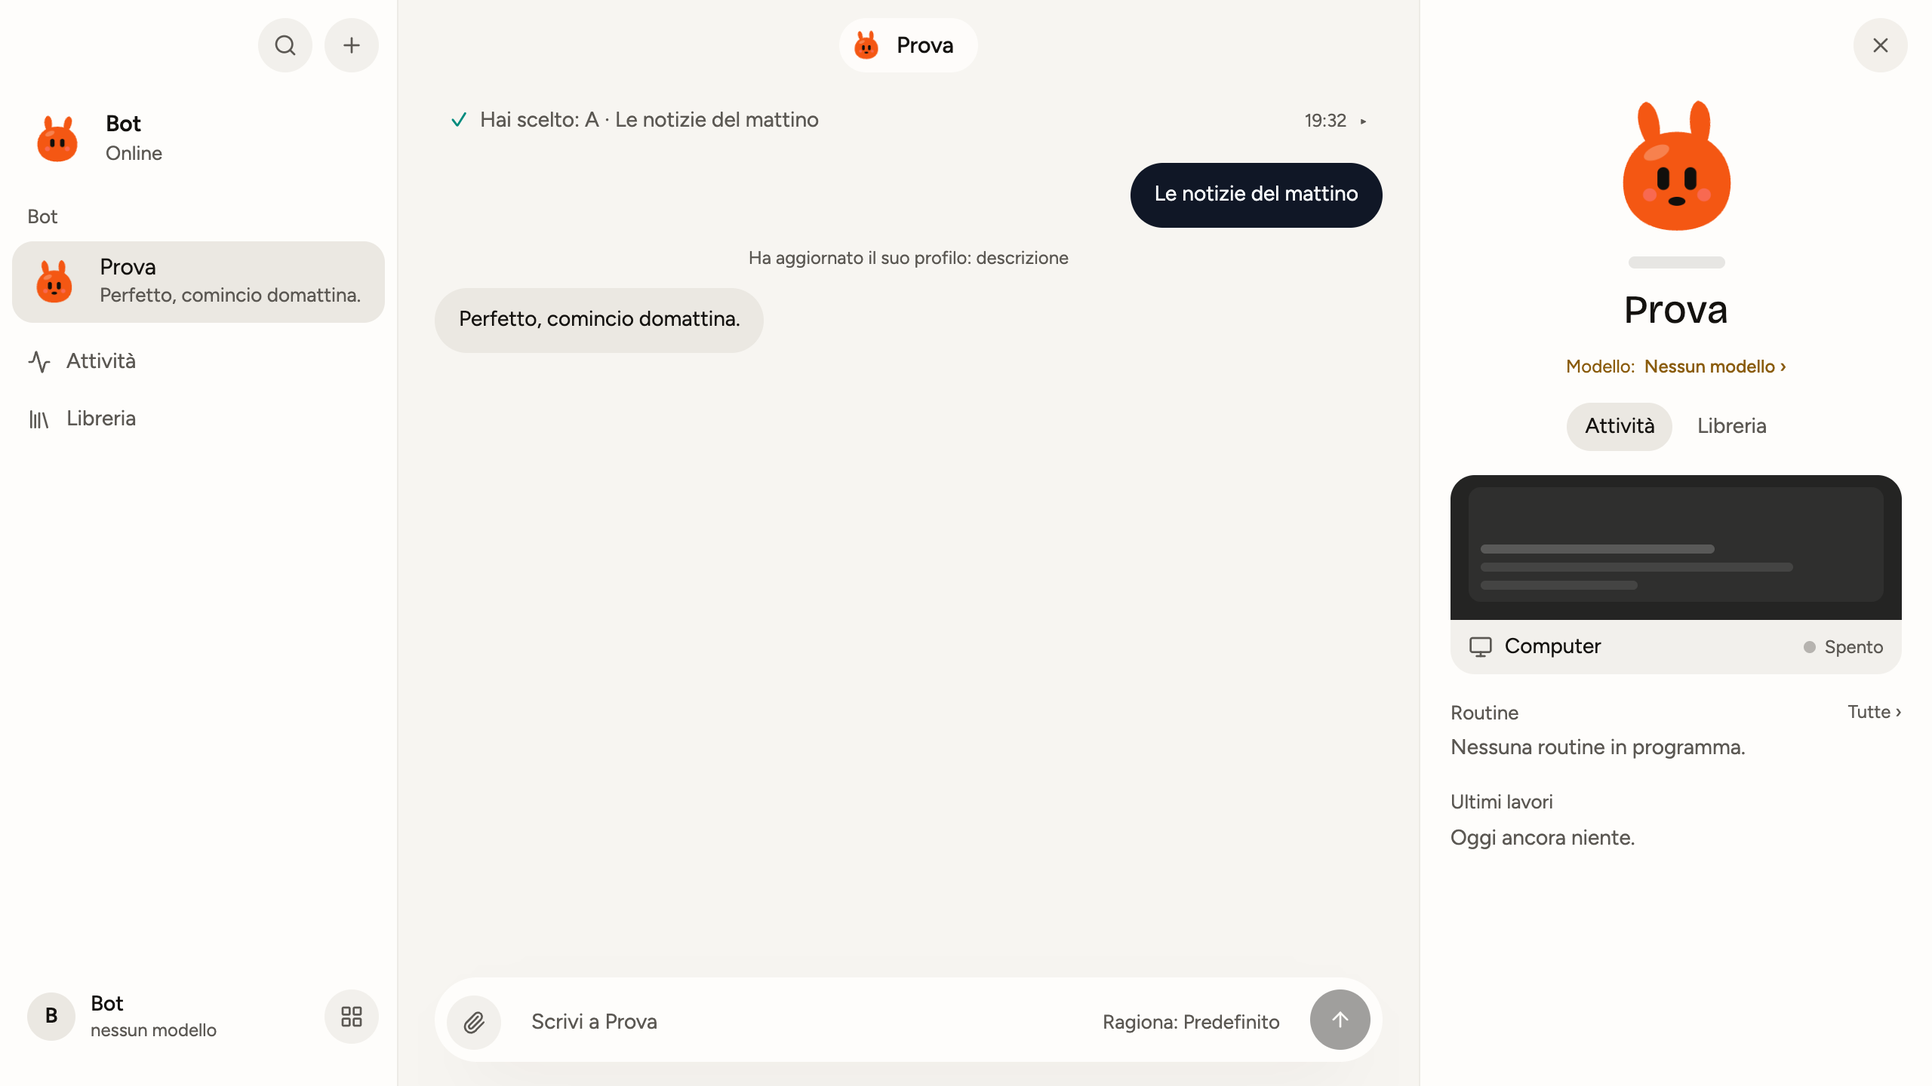
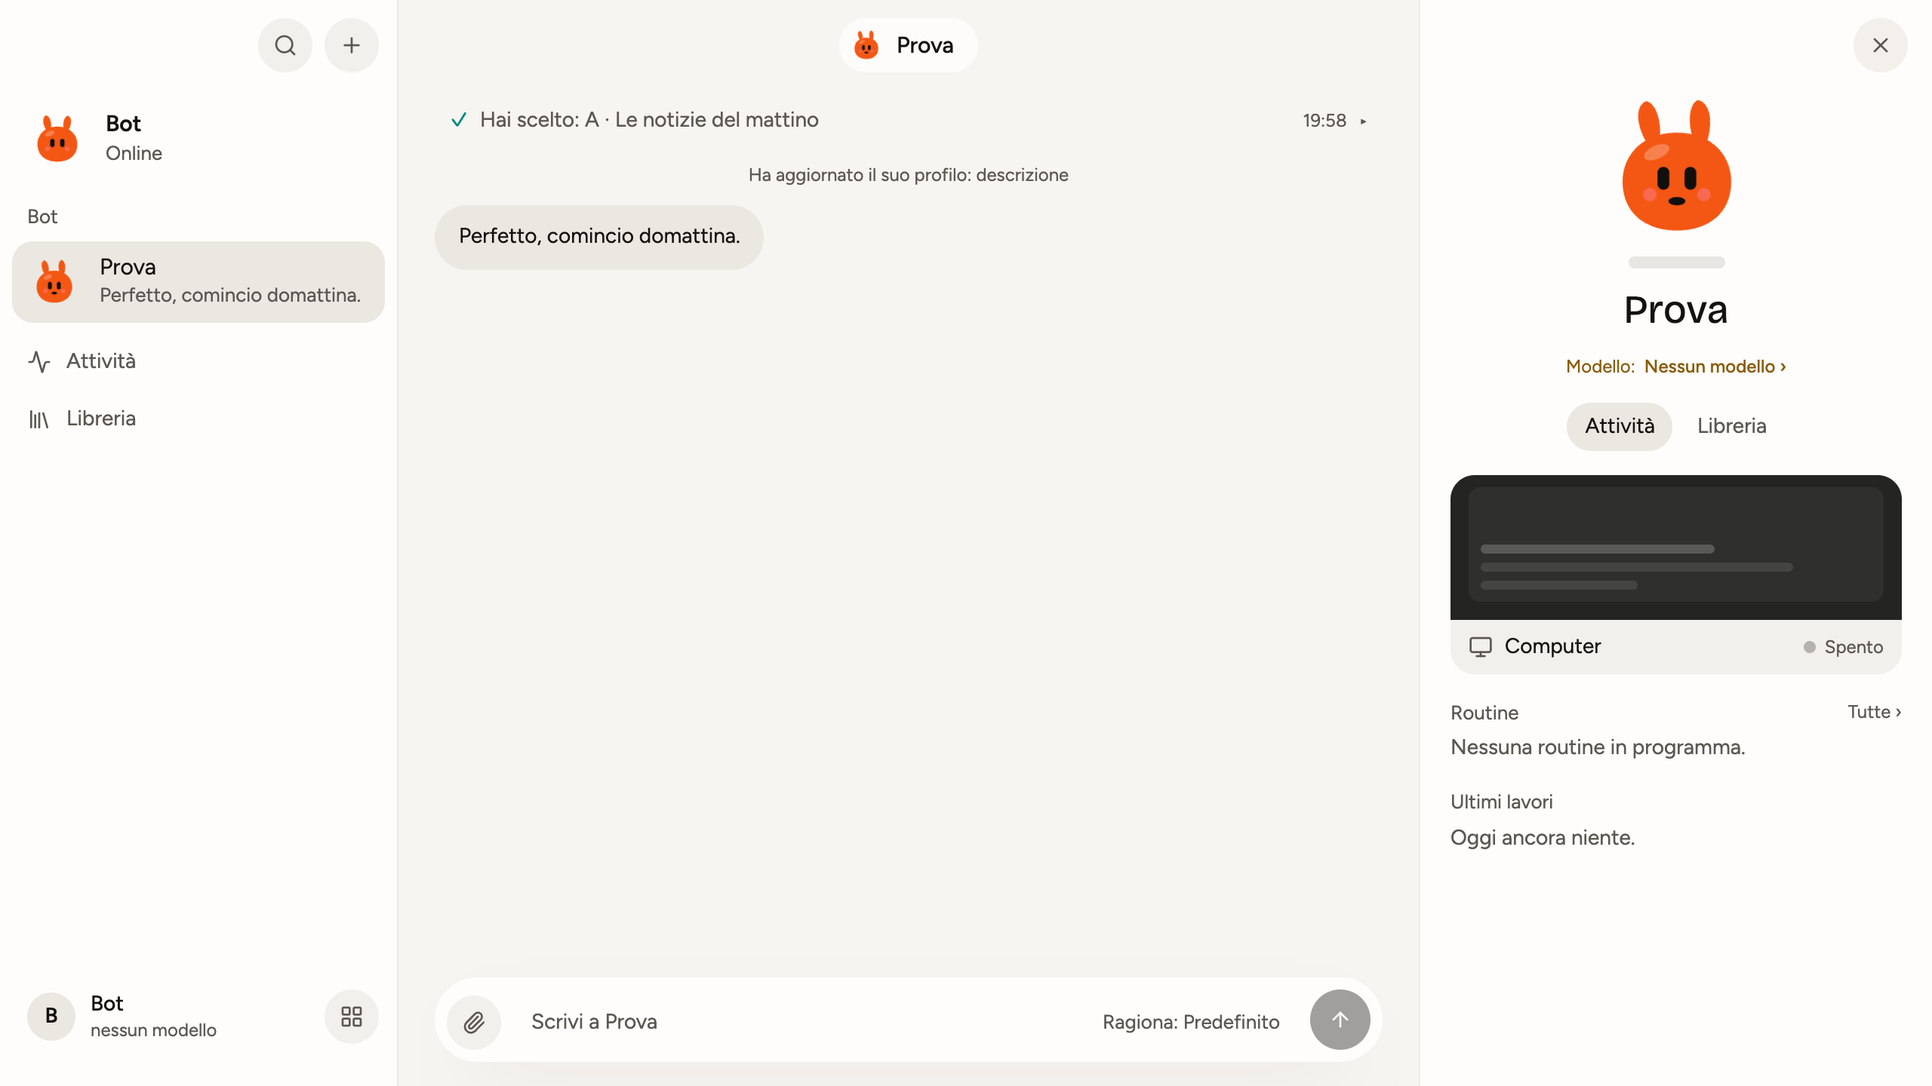
B6 (fase beta.4): REPORT e chiusura
- REPORT della fase aggiunto IN CIMA (la coda resta byte per byte:
  report-history verde)
- CHANGELOG: voce 0.3.1001-beta.4 BREVE, 669 caratteri (≤ 900, test
  dedicato) — le quattro cose in parole per l'utente
- verifiche finali: typecheck pulito · vitest 3 corse VERDI
  (262 file / 3843 test) · build verde (main 0,99 s · preload 0,007 s ·
  renderer 1,33 s) · language-judges 56/56 (2,09 s) · sonda
  fase-beta-4-probe 25/25, 0 daemon a fine corsa · cataloghi it/en
  allineati · auto-review.eval.ts NON eseguito
- niente push, nessun tag v*

diff --git a/scripts/__tests__/release-docs.test.ts b/scripts/__tests__/release-docs.test.ts
@@ -117,3 +117,23 @@ describe('fase rilascio di prova (RP5): versione e CHANGELOG', () => {
 })
 
 void existsSync
+
+describe('B6 (fase beta.4): la voce 0.3.1001-beta.4 — BREVE (la leggono anche i client beta.3 con l\'NSAlert)', () => {
+  it('c\'è, sta SOPRA la beta.3, e resta sotto i 900 caratteri', async () => {
+    const { extractReleaseNotes } = (await import('../extract-release-notes.mjs')) as {
+      extractReleaseNotes: (changelog: string, version: string) => string | null
+    }
+    const changelog = read('CHANGELOG.md')
+    const body = extractReleaseNotes(changelog, '0.3.1001-beta.4')
+    expect(body, 'manca la sezione ## [0.3.1001-beta.4] nel CHANGELOG').not.toBeNull()
+    // BREVE: massimo 900 caratteri in tutto (le righe si uniscono da sole, B1)
+    expect(body!.length).toBeLessThanOrEqual(900)
+    expect(changelog.indexOf('## [0.3.1001-beta.4]')).toBeLessThan(changelog.indexOf('## [0.3.1001-beta.3]'))
+    // le quattro cose della fase, in parole per l'utente
+    const flat = body!.replace(/\s+/g, ' ')
+    expect(flat).toMatch(/[Nn]uovo.*si presenta|si presenta.*[Nn]uovo/)
+    expect(flat).toMatch(/note dell'aggiornamento/)
+    expect(flat).toMatch(/app hai collegato|app collegate/)
+    expect(flat).toMatch(/chat/)
+  })
+})

diff --git a/REPORT.md b/REPORT.md
@@ -1,3 +1,54 @@
+# REPORT FASE BETA.4: creazione come Rakazo, dialogo d'aggiornamento, app collegate (B1–B5) — un solo «Nuovo» col bot che si presenta (turno nascosto, update_self, la squadra in chat), le note dell'aggiornamento leggibili coi bottoni sempre in finestra (righe unite + finestra 460×520 col gancio di prova), il bot sa quali app ha collegate (riga nel prompt a ogni turno + search_connectors che non ripropone), la creazione dalla chat senza sbavature, l'eval del revisore che separa i timeout
+
+**Data:** 2026-11-11 · **Base:** `main` @ `c944f26e` (CHANGELOG beta.3, verificata prima di partire: `git rev-parse main` = `c944f26e86b5…` e NESSUN tag `fase-beta-4`) · **Tag di chiusura:** `fase-beta-4`. Nessun push, NESSUN tag `v*`. Riferimento Rakazo letto prima di B2/B4 (solo lettura, clone `rakazo-src`): `apps/web/src/pages/shell/create-bot-dialog.tsx` (il dialogo chiede SOLO nome e aspetto), `apps/api/src/routes/bots.ts` (`botIntroPrompt` righe 211–240 e `enqueueBotIntroRun` righe 247–294: il turno «created», idempotente, non parte senza modello), `packages/adapters/src/executor.ts:1575` (`Connected plugins: … Prefer those plugin tools over…`). Lavoro offline: nessun download vero (`prepare-wasm`/`prepare-engramma` sempre fast path nei `pre`, `fetch-llama` mai lanciato, `electron-builder` mai lanciato: il build scrive solo `out/`), rete SOLO su 127.0.0.1 (il provider della sonda è FINTO), niente Docker, niente eval col modello (`language-judges` è offline; `eval/auto-review.eval.ts` NON eseguito), niente dist firmata, temporanei solo con mkdtemp in `/var/folders/nb/r6fbsdsn3z58bkbb9w55nn780000gn/T/`, `prepare-engramma` mai con `--update-lock`, catture SOLO via CDP (`Page.captureScreenshot`, mai `screencapture`), l'app e il daemon mai avviati su `~/Library/Application Support/sandbot` (né letti né copiati), `/Applications/Homun.app` e il suo daemon mai toccati, `vendor/llama`, `vendor/engramma` e `dist-installers/` mai scritti, il repo di Engramma, `~/Projects/Homun/homun2` e l'Homebrew `llama-server` mai toccati, `out-review/` e `docs/catture` intatti (solo la cartella nuova `docs/catture/beta-4/`). A fine OGNI corsa della sonda: `stopProbeDaemons` → «1 trovati, 1 chiusi, 0 rimasti»; due daemon di sviluppo lasciati vivi da DUE MIEI SCRIPT DI DEBUG intermedi (non dalla sonda) sono stati chiusi a mano prima della verifica finale (pgrep ripulito: resta solo il daemon VERO dell'utente da `/Applications/Homun.app`, mai toccato).
+
+**Verifica finale:** typecheck pulito · `vitest` suite intera **3 corse consecutive VERDI: 262 file / 3843 test** — base 253 file / 3779 test → **+9 file / +64 test** · `npm run build` verde (main 0,99 s · preload 0,007 s · renderer 1,33 s) · `eval/language-judges.eval.ts` **56/56** (2,09 s) · sonda `scripts/fase-beta-4-probe.mjs` **25/25 controlli** (B1: 14 — finestra dell'offerta a 1470×956 e 1280×720, tre bottoni DENTRO l'area visibile `getBoundingClientRect` ≤ `innerHeight`, area note che scorre, nessun «<» nelle note, finestra ≤ 460×520 pt; B2: 11 — «+» che apre subito il dialogo senza menu, dialogo senza «Cosa farà?» col link «Parti da un modello», card ask_user nella chat del bot nuovo, SOLO ask_user e update_self al modello, prompt nascosto non in chat ma presente per il modello, riga «Ha aggiornato il suo profilo», descrizione cambiata da update_self), 5 catture in `docs/catture/beta-4/`. Cataloghi Lingui `it`/`en` allineati (1470/1470 msgid, zero mancanti in en; `lingui extract --clean` + `compile`); test i18n-catalogs verde. `package.json` resta `0.3.1001`. **`eval/auto-review.eval.ts` NON si esegue qui** — lo giro io col revisore vero: `EVAL_RUNS=3 npx vitest run --config vitest.eval.config.ts eval/auto-review.eval.ts`.
+
+## B1 — Le note dell'aggiornamento si leggono e i bottoni restano visibili
+
+1. **Il corpo della release senza a capo spezzati** (`scripts/extract-release-notes.mjs`, `joinWrappedLines` pura): le righe di continuazione di paragrafo e voci si uniscono con uno spazio (le continuazioni nel CHANGELOG sono indentate: si uniscono col trim); titoli, righe vuote, elenchi e blocchi di codice (recinti ```/~~~) restano. Così GitHub non mette più `<br>` e l'NSAlert dei client beta.3 riceve testo pulito. Test visti ROSSI prima (poi verdi; `release-notes-join.test.ts` nuovo 3): la sezione beta.3 VERA produce voci di una riga (le frasi spezzate si ricompongono: «chi legge per rispondere…», «le tue board di Trello)…»), i titoli e le righe vuote restano, il blocco di codice resta intatto.
+2. **`htmlToPlainText` regge l'HTML di GitHub** (`src/main/release-notes-text.ts`): `<br>` seguito da spazi e `
+` è UN a capo morbido (si unisce con uno spazio), un `
+` dentro `p`/`li` pure; si va a capo SOLO su `</p>`, `</li>`, i titoli e `<br>` non seguito da `
+`. La prova usa come fixture **l'HTML VERO della beta.3** (dal feed atom, copiato tale e quale in `src/main/__tests__/fixtures/release-notes-beta3.html`): nessuna riga vuota tra i pezzi di una voce e ≤ 12 righe prima del taglio (il taglio è la riga «…» da sola: il testo contiene ellissi letterali come «È disponibile Homun…», non valgono). Il test beta.2 esistente si adatta: il taglio finisce a fine voce intera come prima (le righe ora sono quelle unite).
+3. **Il dialogo diventa una finestra di Homun** (`offerUpdate` in `src/main/updater.ts`): via `showMessageBoxSync`; una `BrowserWindow` modale ≤ 460×520 pt (opzioni pure `updateOfferWindowOptions`: non ridimensionabile, centrata, sandbox + contextIsolation + niente nodeIntegration), HTML autonomo (`buildUpdateOfferPage`, puro): titolo «È disponibile Homun {version}», note in area che SCORRE (`#upd-notes` flex + overflow-y), TRE bottoni FISSI in fondo (Scarica e installa · Apri le note · Più tardi — l'etichetta `updater.download` diventa «Scarica e installa»/«Download and install»), tema chiaro/scuro da `nativeTheme`, lingua da `mainStrings()`. Le note sono testo semplice (`notesOf`/`releaseNotesText` col taglio a 1500 che resta) messe con `textContent` (`updateOfferNotesScript`, mai HTML), CSP `default-src 'none'; style-src 'unsafe-inline'`, NESSUNA risorsa esterna e nessuno script in pagina: i bottoni fanno un `location.assign('sandbot-update-action:…')` che il main intercetta in `will-navigate` (preventDefault) — chiudere la finestra equivale a «Più tardi». Le azioni restano quelle di oggi (`startDownload`, `shell.openExternal` sulla pagina della release). Test visti ROSSI prima (poi verdi; `updater.test.ts` +5): opzioni, pagina (bottoni coi loro id, area che scorre, footer, CSP, note NON nella pagina), textContent, gancio.
+4. **Il gancio di prova**: `testUpdateOfferFromEnv` (puro) — con `SANDBOT_TEST_USER_DATA` + `SANDBOT_TEST_UPDATE_NOTES=<file>` all'avvio (`index.ts`, dopo `createWindow`) la finestra si apre con la versione finta (`0.3.1001-beta.4`) e quelle note, SENZA controllare GitHub e senza azioni vere (niente download, niente browser). Senza `SANDBOT_TEST_USER_DATA` la variabile è IGNORATA (test dedicato).
+5. **La sonda** (parte B1): apertura con la fixture beta.3 a 1470×956 e 1280×720 (due giri dell'app, viewport emulato via CDP): i tre bottoni DENTRO la finestra visibile, l'area che scorre, nessun «<» — tutto verificato NELLA pagina della finestra (secondo target CDP, `Page.captureScreenshot`).
+
+## B2 — Un solo «Nuovo», e il bot si presenta (come Rakazo)
+
+1. **Il «+» apre subito il dialogo «Nuovo»**, senza il menu bot/squadra (Sidebar larga E rotaia: bottone diretto, `NewTeamDialog` eliminato). Il dialogo chiede SOLO l'aspetto (famiglie e colori di oggi) e il nome (obbligatorio: Crea attivo solo col nome); in fondo il link «Parti da un modello» apre l'elenco di oggi (le righe con «Altri N ▾», lo stesso flusso col kickstart: `createAgentFromTemplate` + `updateAgent` di nome e aspetto). Fuori «Cosa farà?» e «Descrivilo tu». Test visti ROSSI prima (poi verdi; `new-bot-dialog.test.ts` nuovo 4 + rail-functions aggiornato 2): niente «Cosa farà?»/«Descrivilo tu», Crea disabled a nome vuoto (prop catturata dal runtime JSX: React non renderizza `disabled={false}` nell'HTML statico), il link c'è e il flusso dei modelli resta, niente «Nuova squadra».
+2. **Il turno di presentazione** (`src/main/agent/bot-intro.ts`, nuovo): `agents:create` dal dialogo accoda UN job `user-message` initiator `BOT_INTRO` col prompt nascosto `botIntroPrompt` (modello di Rakazo: chiama SUBITO ask_user senza testo prima, saluta per nome se lo conosce, 2–4 opzioni ADATTE al nome e a ciò che sa — mai un elenco fisso — risposta libera sempre, la squadra se servono più ruoli, una riga invece di chiedere se il profilo è già chiaro, poi update_self e si parte con al massimo una domanda in più). Vincoli: NON parte senza un modello utilizzabile (`resolveAgentModel`, e il provider del «Come gli altri» deve essere attivo) — la chat vuota resta com'è; UNA volta sola (l'apertura BOT_INTRO già nel transcript blocca le altre); il prompt NON compare in chat (`openingRowFor`: kind `hidden`, nuovo) e non finisce nella cronologia cercabile (initiator ≠ conversazione in `isConversationEntry`); in quel turno al modello arrivano SOLO `ask_user` e `update_self` (`toolsForTurnSource` col filtro BOT_INTRO e, nel loop, niente nucleo/find_tools/gruppi né MCP — come il trigger «created» di Rakazo). `create_agent` e i modelli NON accodano nulla (test nel loop e nella RPC). Test visti ROSSI prima (poi verdi; `bot-intro.test.ts` nuovo 10 + `agents-create-intro.test.ts` nuovo 3 + connectors-policy +2 + loop +2 + opening-rows +1).
+3. **`update_self`** (tool nuovo, nel nucleo, sempre disponibile): il bot aggiorna il PROPRIO profilo — `description` (una riga: cosa fa), `role` (le istruzioni: come), `name` SOLO finché è ancora quello scritto nel dialogo (colonna `birth_name` degli agents, segnata solo dalla RPC del dialogo) e l'utente ne ha chiesto un altro. Mai l'aspetto, il modello o i permessi (l'esecuzione non li tocca); un `agentId` altrui si rifiuta; sempre consentito (come le proprie memorie, mai card). Ogni modifica lascia in chat la riga di sistema «Ha aggiornato il suo profilo: descrizione, istruzioni» (il LOOP la scrive dal `meta.selfUpdate`, come le automation; i nomi dei campi nella lingua dell'interfaccia: `selfProfileFieldsText`). Test visti ROSSI prima (poi verdi; `update-self.test.ts` nuovo 5 + il test di loop sulla riga).
+4. **La squadra si crea in chat**: «Teams and groups» ora dice di PROPORRE prima con ask_user (una riga per membro: nome e ruolo) e creare solo dopo il sì (`create_agent` + `create_group` restano nella prima regola, i test di budget/token-pari verdi); per un compito solo, UN bot solo. Le squadre esistenti si modificano come oggi.
+5. Nella sonda (B2a/B2b/B2c, provider finto): «+» → dialogo → nome «Prova» → Crea → la card della domanda compare nella chat del nuovo bot → risposta → la risposta finta con `update_self` cambia la descrizione.
+
+## B3 — La creazione dalla chat senza sbavature
+
+1. **Risposta libera**: la riga dopo la card dice «Hai scritto: Alle 8» (`widgetDecidedLabel`, pura) — niente lettera né «·» vuoti («Hai scelto: · · Alle 8»); con un'opzione resta «Hai scelto: A · etichetta» (lettera e opzioni multiple come prima). La risposta NON si ripete come bolla utente: `hidesUserBubble` (puro) e Chat la salta — resta la riga della card, riapribile (nemmeno l'anteprima della sidebar la ripete). Test visti ROSSI prima (poi verdi; `widget-answer.test.ts` nuovo 4).
+2. **L'anteprima della barra è testo semplice**: `plainPreview` (pura) toglie `**`, `__`, `*`, `_`, `#`, backtick e link markdown («Fatto! Ho creato il bot **"No…» ora si legge pulito); applicata alle anteprime dei messaggi del bot e dei «Tu:». Test visti ROSSI prima (poi verdi; sidebar-utils +3).
+3. **I messaggi a un altro bot** (`send_to_agent` verso un bot creato o a cui si delega): da bolla piena (refusi del modello compresi) a UNA riga «Ha chiesto a Notizie Tech: …» (≤ 100 caratteri, `askedRowSummary` pura) che si apre per leggerli interi, come le righe dei tool (`AgentSendRow`, componente nuovo). Test visti ROSSI prima (poi verdi; `agent-send-row.test.ts` nuovo 2).
+4. **«Routine creata (in pausa)» col bottone «Attiva»** (`RoutineCreatedRow`, componente nuovo): un clic attiva la routine (il consenso È il clic: resta in pausa per default); se manca il fuso orario prima lo chiede con la STESSA UI della pagina Routine (input «Fuso orario (es. Europe/Rome)», `routines:update-trigger` che lo valida); il testo del bot resta vero, ora basta un clic lì. Test visti ROSSI prima (poi verdi; `routine-created-row.test.ts` nuovo 4, con il piano puro `activatePlanOf`).
+5. Renderer con react-dom/server come nelle fasi precedenti (render-helper + cattura props del runtime JSX dove il click serve).
+
+## B4 — Il bot sa quali app ha collegate
+
+1. **Una riga nel prompt di ogni turno, nella parte che CAMBIA** (mai nel prefisso in cache: si costruisce nel loop DOPO il prompt base, accanto alle istruzioni dei connettori): «Connected apps: Trello, Gmail (via Composio: COMPOSIO_SEARCH_TOOLS to find the action, then COMPOSIO_MULTI_EXECUTE_TOOL); MCP servers: Notion. To read or change these apps' data use these tools: not history, memory, the browser or a new connector.» — la lingua è quella di oggi (inglese, come la pluginLine di Rakazo a executor.ts:1575). La fonte: lo stato locale del gateway Composio (le app collegate di C5, ACTIVE) e i server MCP attivi del bot (senza il trasporto Composio: `mcpServerNames`). Massimo 20 nomi IN TUTTO (prima le app, poi i server), poi «and N more». Test visti ROSSI prima (poi verdi; `connected-apps.test.ts` nuovo 6 + 2 nel loop: la riga c'è DOPO «# Limits» col gateway finto, e non c'è senza app).
+2. **`search_connectors` su un'app già collegata** risponde subito «"Trello" is already connected via Composio: use COMPOSIO_SEARCH_TOOLS to find the action, then COMPOSIO_MULTI_EXECUTE_TOOL», senza cercarne (e proporne) un'altra (`connectedAppMatch`, puro: nome o slug, maiuscole irrilevanti, anche DENTRO la query «le board di trello»). Test visto ROSSO prima (poi verde).
+3. Il comportamento col modello vero lo misuro io dopo (come da spec).
+
+## B5 — L'eval del revisore separa i timeout
+
+In `src/main/agent/review-eval.ts`: `ReviewEvalRecord` ha `timedOut` (l'errore di `runReviewer` comincia per «timeout»: il `timeout (10003 ms)` del giro vero finiva contato come risposta invalida E come sbaglio); `correct` usa l'esito di PRODUZIONE — un esito non valido vale ask, quindi è corretto se l'atteso era ask; la tabella ha la colonna «timeout»; nel totale le «malformate dopo la riprova» contano SOLO le risposte malformate e in più ci sono numero e quota dei timeout; soglie: maggioranza sbagliata = caso fallito, malformate dopo la riprova = 0, timeout ≤ 10% del totale. Test col ReviewerModel finto, visti ROSSI prima (poi verdi; `review-eval.test.ts` +4 e il totale aggiornato): timeout su caso ask CORRETTO, su caso allow SBAGLIATO, tutti e due nella colonna «timeout» e NON tra le malformate (1 timeout su 12 giri ≈ 8%: nessun problema; 1 su 3 = 33%: problema dedicato). **`eval/auto-review.eval.ts` NON eseguito.**
+
+## B6 — Chiusura
+
+- CHANGELOG, voce `0.3.1001-beta.4` BREVE: **669 caratteri** (≤ 900, test dedicato in `release-docs.test.ts` visto rosso prima) — le quattro cose in parole per l'utente: un «Nuovo» solo col bot che si presenta, le note dell'aggiornamento leggibili coi bottoni visibili, il bot che sa quali app hai collegato, la creazione dalla chat più pulita. Con B1.1 le righe si uniscono da sole: i client beta.3 con l'NSAlert le leggeranno pulite.
+- Cataloghi Lingui IT/EN allineati (1470/1470, zero mancanti in en): +12 voci (la finestra «Nuovo», la riga del profilo, «Hai scritto/Hai scelto», «Ha chiesto a», «Attiva»…), − le voci uscite col menu squadra e «Cosa farà?».
+- Typecheck, vitest (3 giri), build, `language-judges.eval.ts` e la sonda con i numeri in testa; `auto-review.eval.ts` NON eseguito.
+- REPORT aggiunto in cima (questa sezione); il test `report-history` verde (coda byte-identica).
+- Commit: uno per punto (B1 `b4164f96`, B2 `c27880ff`, B3 `0b39e711`, B4 `f989c993`, B5 `f6e60245`) + questo REPORT (col CHANGELOG della B6), poi il tag annotato `fase-beta-4`. **Nessun push e nessun tag `v*`.**
+
 # REPORT FASE REVISORE: CORREZIONI DALLA MISURA (RX1–RX3) — il revisore risponde sempre in forma valida (reason breve nello schema e UNA riprova quando mancano i campi), il timeout sale a 10 s, l'eval misura quello che conta (caso 10 riscritto, caso 13 nuovo, EVAL_RUNS con tabella e soglie)
 
 **Data:** 2026-11-11 · **Base:** `main` @ `4c5bff26` (REPORT di `fase-revisore-richiesta`, verificata prima di partire: `git rev-parse main` = `4c5bff2616b2…` e NESSUN tag `fase-revisore-correzioni`) · **Tag di chiusura:** `fase-revisore-correzioni`. Nessun push, NESSUN tag `v*`. Riferimento Rakazo letto (solo lettura): `packages/adapters/src/auto-review.ts` — `DEFAULT_TIMEOUT_MS = 10_000` (riga 21), `MAX_REASON_CHARS = 160` (riga 33), `truncateReviewText` (righe 215–219). Lavoro offline: nessun download vero (`prepare-wasm`/`prepare-engramma` sempre fast path nei `pre`, `fetch-llama` mai lanciato, `electron-builder` mai lanciato: il build scrive solo `out/`), NESSUNA rete (nemmeno su 127.0.0.1: `eval/auto-review.eval.ts` NON eseguito), niente Docker, niente eval col modello (`language-judges` è offline), niente dist firmata, NESSUN temporaneo creato (non serviva), `prepare-engramma` mai con `--update-lock`, 0 daemon e 0 `llama-server` accesi da me dopo OGNI corsa (pgrep ripetuto: sempre e solo il daemon VERO dell'utente da `/Applications/Homun.app`, mai toccato), l'app e il daemon mai avviati su `~/Library/Application Support/sandbot` (né letti né copiati), `vendor/llama`, `vendor/engramma` e `dist-installers/` mai scritti, il repo di Engramma, `~/Projects/Homun/homun2` e l'Homebrew `llama-server` mai toccati, `out-review/` e `docs/catture` intatti.

diff --git a/CHANGELOG.md b/CHANGELOG.md
@@ -5,6 +5,24 @@ pubblicata finisce nel corpo della GitHub Release (da cui l'app mostra il
 «cosa cambia» quando propone un aggiornamento). Formato: `## [x.y.z] — data`,
 sezioni H2 e un punto per riga.
 
+## [0.3.1001-beta.4] — 2026-11-11
+
+Quattro cose che hai chiesto dopo la beta.3.
+
+### Novità
+
+- **Un solo «Nuovo», e il bot si presenta.** Dal «+» crei il bot con nome e
+  aspetto: è lui a chiederti a cosa serve, a scriversi la descrizione e a
+  partire. Le squadre nascono in chat, e puoi ancora partire da un modello.
+- **Il bot sa quali app hai collegato.** Trello, Gmail, i server che hai
+  aggiunto: li usa subito, senza cercare un connettore nuovo ogni volta.
+
+### Correzioni
+
+- **Le note dell'aggiornamento si leggono e i bottoni restano visibili.**
+- **La creazione dalla chat è più pulita:** le risposte, le anteprime, le
+  richieste ai bot e le routine col bottone «Attiva» a portata di clic.
+
 ## [0.3.1001-beta.3] — 2026-11-11
 
 Il turno di Trello con 11 card di approvazione e nessuna risposta: chi legge
